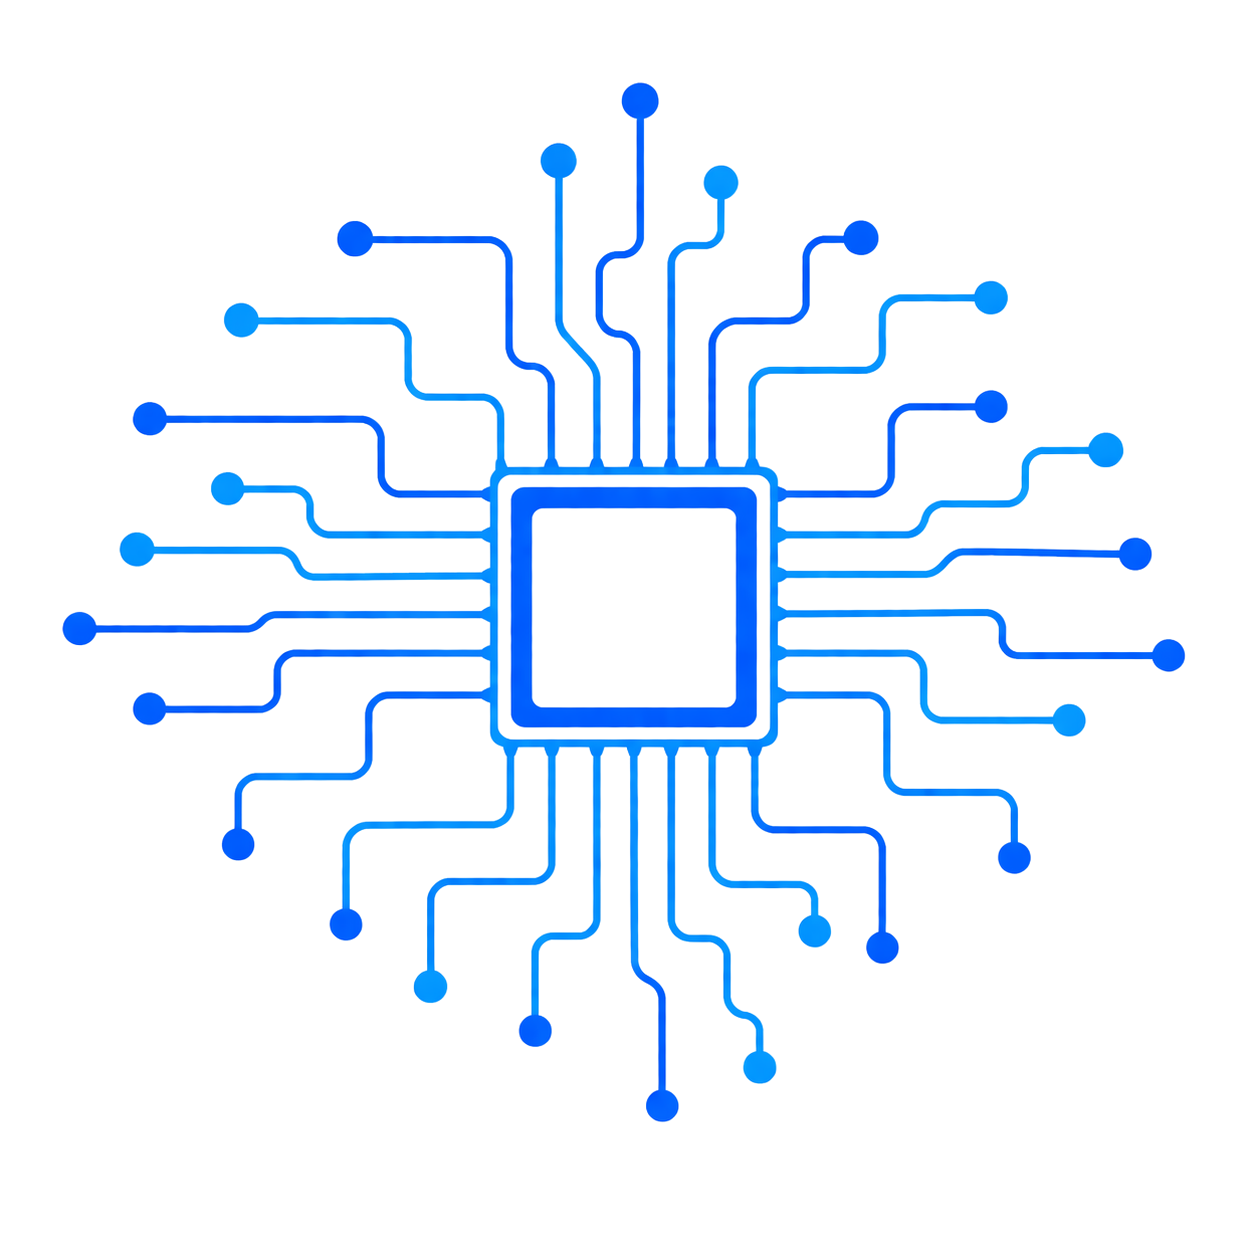
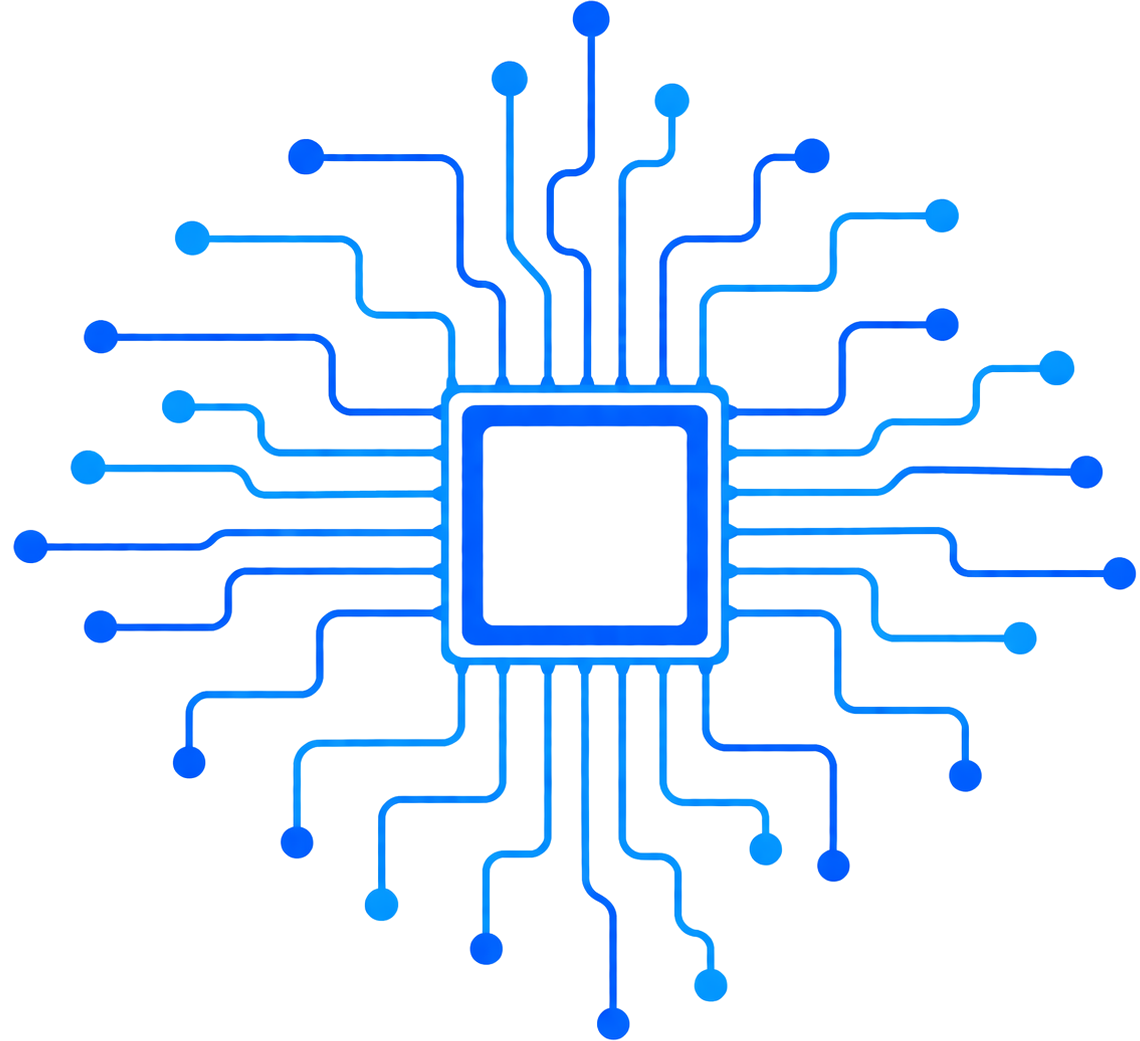
Removed Duplicate Image Updated Files and VsixManifest

Changed region(s): [[0.0, 0.0, 1.0, 1.0], [0.307, 0.7992, 0.3684, 0.8915]]

diff --git a/RunDisplayWindowControl.xaml b/RunDisplayWindowControl.xaml
@@ -13,7 +13,7 @@
         </Grid.RowDefinitions>
 
         <Image x:Name="BackgroundImage"
-               Source="/RunDisplay;component/Resources/DisplayBackground - Copia.png"
+               Source="/RunDisplay;component/Resources/DisplayBackground.png"
                HorizontalAlignment="Center"
                VerticalAlignment="Top"
                Grid.Row="0" Stretch="Uniform">
